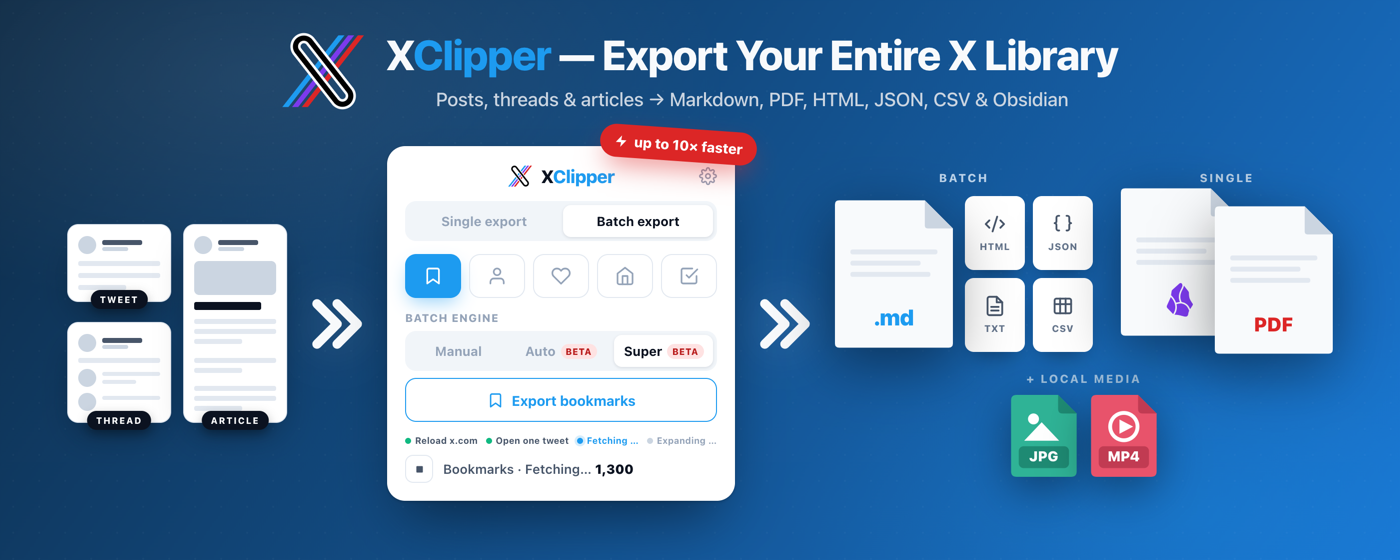
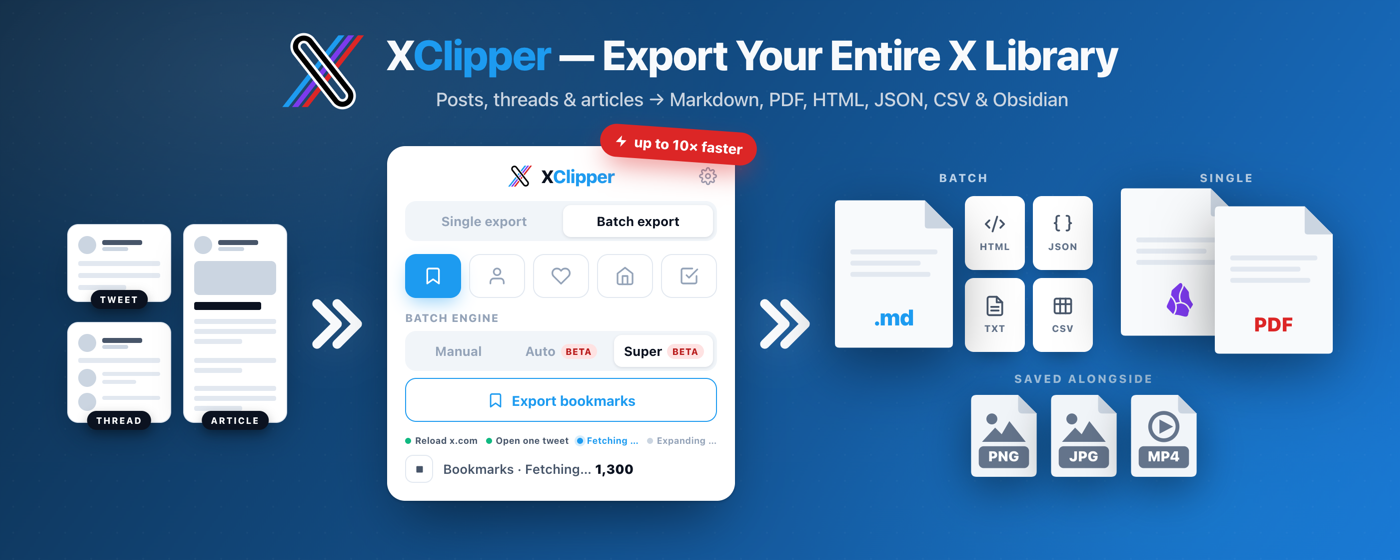
feat(promo): add PNG tile and make the media row neutral

Changed region(s): [[0.6757, 0.6679, 0.86, 0.8804]]

diff --git a/store/mockups/promo.html b/store/mockups/promo.html
@@ -484,26 +484,37 @@
 
         <!-- Saved media: written by both Batch and Single, hence centred under both -->
         <div class="mstrip">
-          <div class="ocap">+ Local media</div>
+          <div class="ocap">Saved alongside</div>
           <div class="mrow">
             <div class="ftile">
               <svg viewBox="0 0 120 150">
-                <path d="M0 10 Q0 0 10 0 L86 0 L120 34 L120 140 Q120 150 110 150 L10 150 Q0 150 0 140 Z" fill="#2FB396"/>
-                <path d="M86 0 L120 34 L94 34 Q86 34 86 26 Z" fill="#1E8A73"/>
-                <circle cx="41" cy="44" r="10" fill="#fff"/>
-                <path d="M24 84 L56 50 L88 84 Z" fill="#fff"/>
-                <rect x="14" y="94" width="92" height="40" rx="9" fill="#1E8A73"/>
+                <path d="M0 10 Q0 0 10 0 L86 0 L120 34 L120 140 Q120 150 110 150 L10 150 Q0 150 0 140 Z" fill="#F1F5F9"/>
+                <path d="M86 0 L120 34 L94 34 Q86 34 86 26 Z" fill="#CBD5E1"/>
+                <circle cx="38" cy="44" r="10" fill="#64748B"/>
+                <path d="M20 86 L44 60 L56 72 L70 48 L100 86 Z" fill="#64748B"/>
+                <rect x="14" y="94" width="92" height="40" rx="9" fill="#64748B"/>
+                <text x="60" y="122" text-anchor="middle" font-family="-apple-system, system-ui, sans-serif"
+                      font-size="26" font-weight="900" fill="#fff" letter-spacing="0.01em">PNG</text>
+              </svg>
+            </div>
+            <div class="ftile">
+              <svg viewBox="0 0 120 150">
+                <path d="M0 10 Q0 0 10 0 L86 0 L120 34 L120 140 Q120 150 110 150 L10 150 Q0 150 0 140 Z" fill="#F1F5F9"/>
+                <path d="M86 0 L120 34 L94 34 Q86 34 86 26 Z" fill="#CBD5E1"/>
+                <circle cx="38" cy="44" r="10" fill="#64748B"/>
+                <path d="M20 86 L44 60 L56 72 L70 48 L100 86 Z" fill="#64748B"/>
+                <rect x="14" y="94" width="92" height="40" rx="9" fill="#64748B"/>
                 <text x="60" y="122" text-anchor="middle" font-family="-apple-system, system-ui, sans-serif"
                       font-size="26" font-weight="900" fill="#fff" letter-spacing="0.01em">JPG</text>
               </svg>
             </div>
             <div class="ftile">
               <svg viewBox="0 0 120 150">
-                <path d="M0 10 Q0 0 10 0 L86 0 L120 34 L120 140 Q120 150 110 150 L10 150 Q0 150 0 140 Z" fill="#E8536B"/>
-                <path d="M86 0 L120 34 L94 34 Q86 34 86 26 Z" fill="#C13B52"/>
-                <circle cx="60" cy="58" r="25" fill="none" stroke="#fff" stroke-width="7"/>
-                <path d="M52 45 L77 58 L52 71 Z" fill="#fff"/>
-                <rect x="14" y="94" width="92" height="40" rx="9" fill="#C13B52"/>
+                <path d="M0 10 Q0 0 10 0 L86 0 L120 34 L120 140 Q120 150 110 150 L10 150 Q0 150 0 140 Z" fill="#F1F5F9"/>
+                <path d="M86 0 L120 34 L94 34 Q86 34 86 26 Z" fill="#CBD5E1"/>
+                <circle cx="60" cy="58" r="25" fill="none" stroke="#64748B" stroke-width="7"/>
+                <path d="M52 45 L77 58 L52 71 Z" fill="#64748B"/>
+                <rect x="14" y="94" width="92" height="40" rx="9" fill="#64748B"/>
                 <text x="60" y="122" text-anchor="middle" font-family="-apple-system, system-ui, sans-serif"
                       font-size="26" font-weight="900" fill="#fff" letter-spacing="0.01em">MP4</text>
               </svg>
